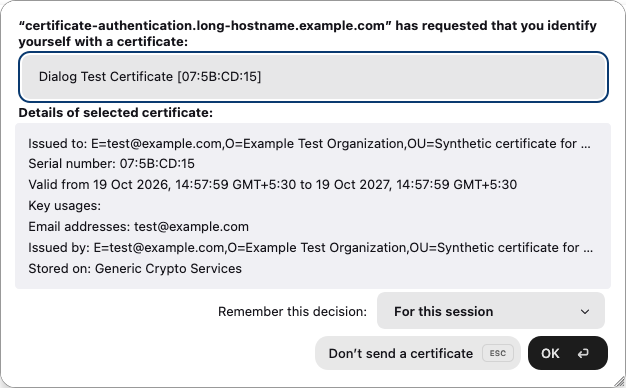
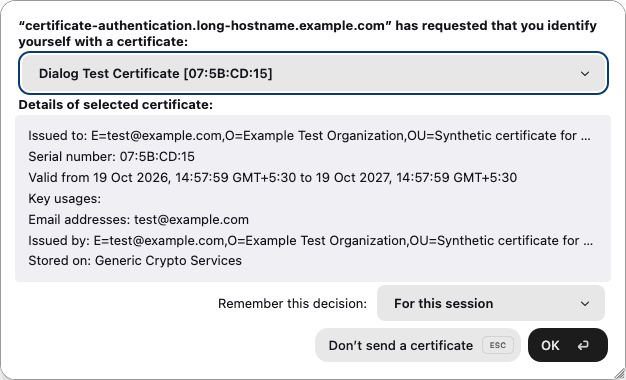
docs: Refresh screenshots and checks for certificate dropdown

diff --git a/README.md b/README.md
@@ -2,8 +2,10 @@
 
 These screenshots were captured from real, isolated, headless Zen 1.23.3b windows on macOS. They use a self-signed test certificate for `test@example.com` and the synthetic hostname `certificate-authentication.long-hostname.example.com`.
 
-The before images use the installed dialog script. The after images use the exact patched Firefox 158.0 dialog script loaded through a temporary chrome-resource override. The installed application and the user's browser profile were not modified. Images were captured directly from the dialog element with Marionette.
+The before images use the installed dialog script. The after images use the exact patched Firefox 158.0 dialog script and markup loaded through a temporary chrome-resource override. The installed application and the user's browser profile were not modified. Images were captured directly from the dialog element with Marionette.
 
-`validation.json` records the 224 passing assertions from the regression task executed through Marionette with minimal test-harness adapters: tab-modal and window-modal dialogs, light and dark themes, 13/16/20px dialog fonts, and window sizes of 1366x850, 1600x1000, and 1024x600. The task checks button bounds within the dialog and the browser window, enabled state, certificate selection, and remember-setting return values.
+`validation.json` records the 294 passing assertions from the regression task executed through Marionette with minimal test-harness adapters: tab-modal and window-modal dialogs, light and dark themes, 13/16/20px dialog fonts, and window sizes of 1366x850, 1600x1000, and 1024x600. The task checks button bounds within the dialog and the browser window, enabled state, dropdown-arrow visibility and bounds, alternate-certificate selection and details, and remember-setting return values.
+
+`mouse-keyboard.json` records a separate input check using Firefox 158.0 EventUtils: mouse click opens the menu; Down and Enter select the alternate certificate; Down reopens the focused selector; Escape dismisses the menu while preserving the dialog.
 
 A full source build and the mach mochitest runner were not run. The screenshots and results are runtime validation of the patched dialog in the installed browser.
